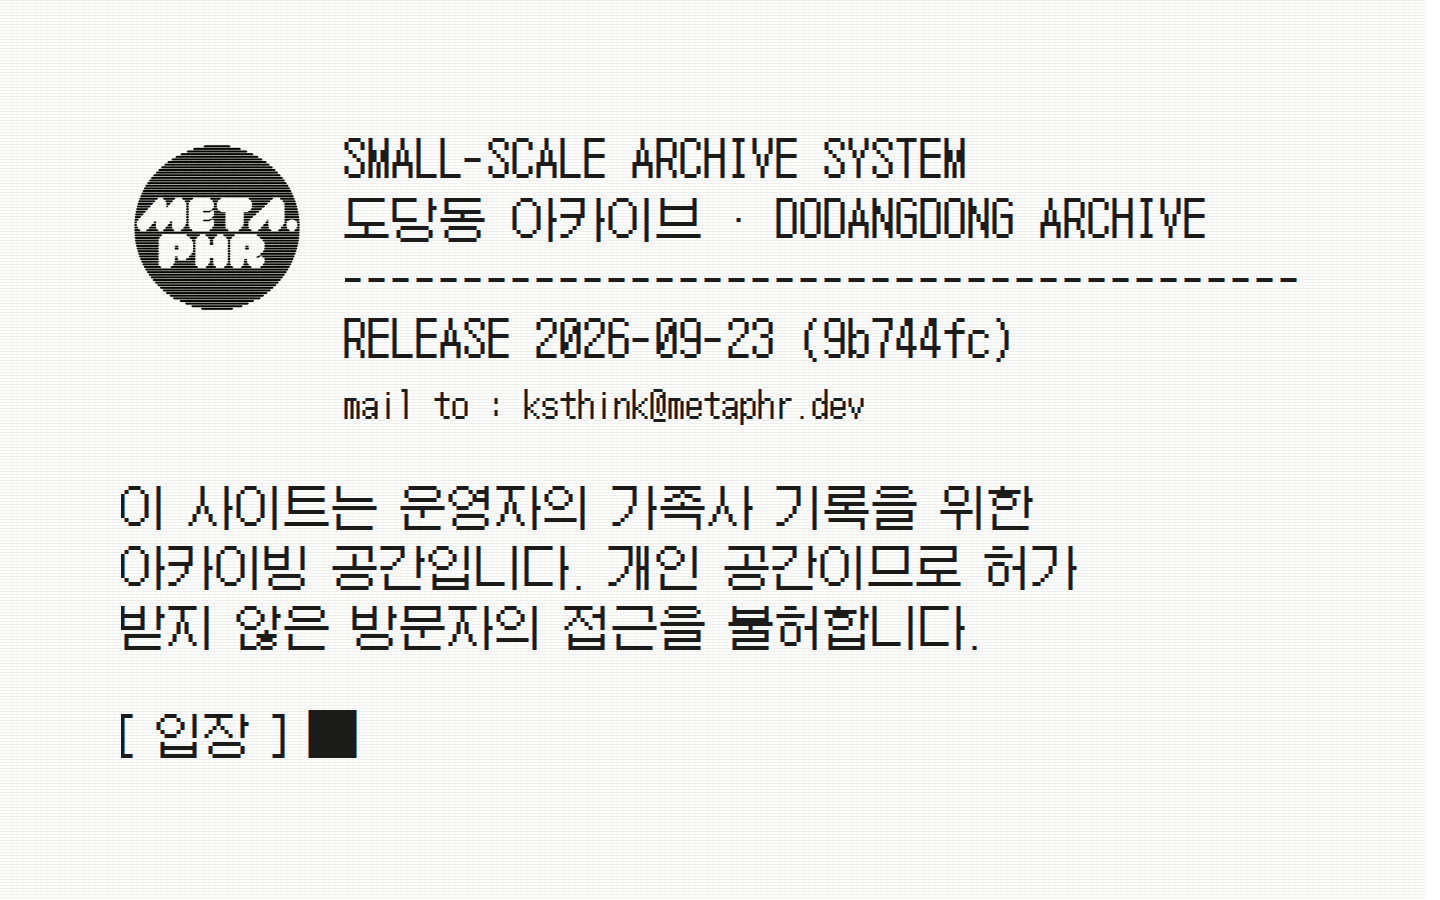
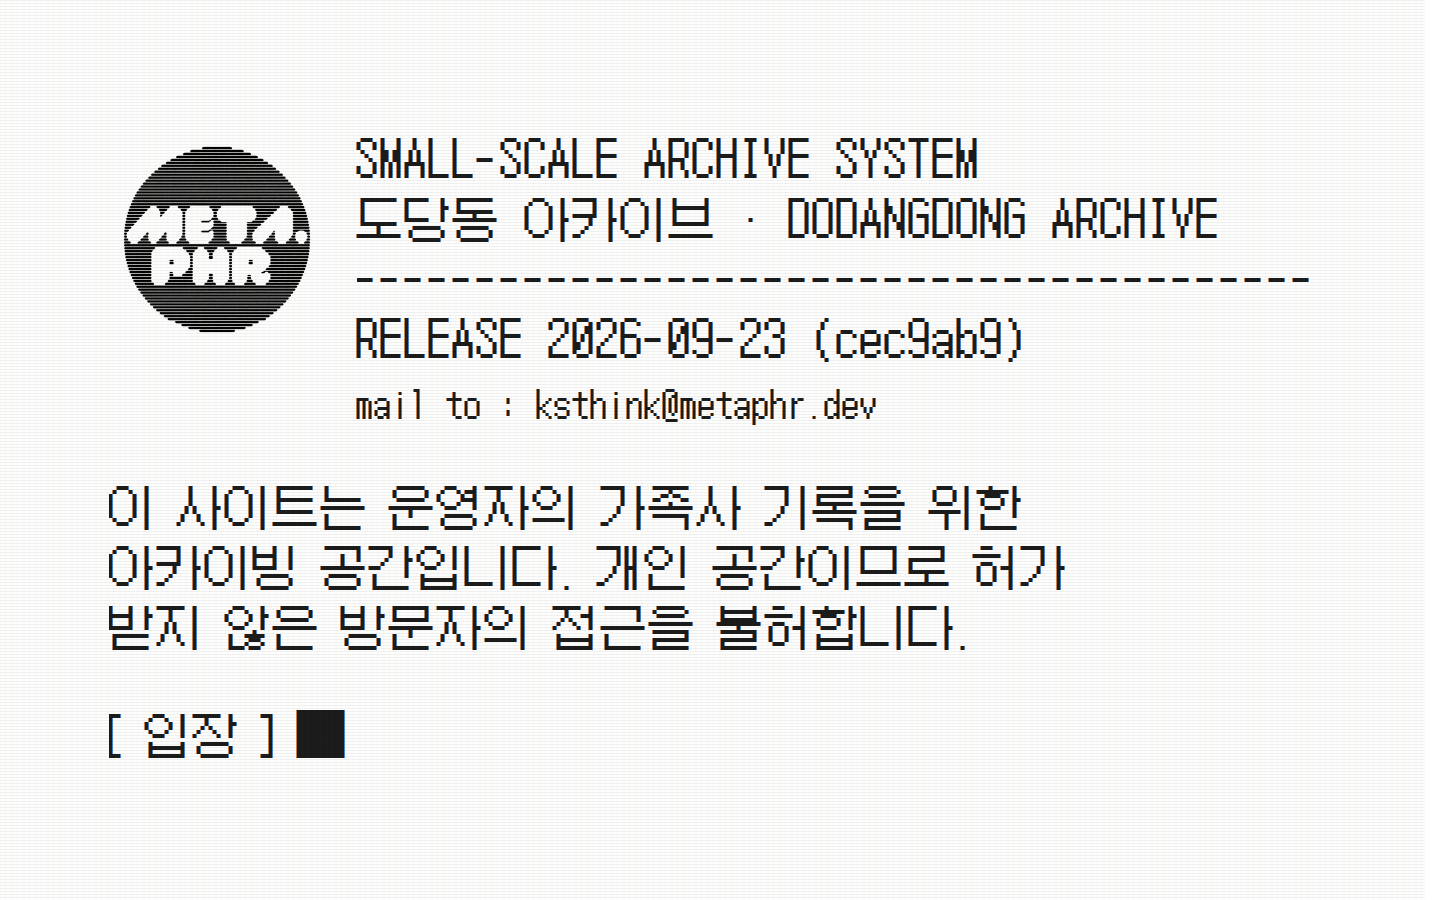
로고 줄무늬를 화면 주사선과 같은 3px 주기에 맞춘다
원본(1254px)의 한 주기가 17.4px 이다. 192px 로 놓으면 2.7px 이 되어
화면에 깔린 3px 주사선과 어긋나고, 그 어긋남이 이질감으로 보였다.
216px 에서 정확히 3px 이 되므로 그 크기로 고정한다. 그림도 2배인
432px 로 다시 받아 둔다(고해상도 화면에서 1:1).

좁은 화면에서도 로고를 줄이지 않는다 — 줄이면 결이 다시 어긋난다.
대신 로고를 글 위로 올려 세로로 쌓는다.

diff --git a/src/app/intro/intro.css b/src/app/intro/intro.css
@@ -85,7 +85,9 @@
   /* 그림에 이미 주사선이 그어져 있다 — CSS 로 덧입히지 않는다(무늬가 겹쳐 어른거린다) */
   display: block;
   height: auto;
-  width: 192px;
+  /* 그림 속 줄무늬가 화면에 깔린 주사선과 같은 3px 주기로 떨어지는 크기다
+     (원본 1254px 에서 한 주기가 17.4px → 216px 에서 3px). 크기를 바꾸면 결이 어긋난다. */
+  width: 216px;
 }
 .intro-head p, .intro-head h1 { font: inherit; margin: 0; }
 /* 기계가 제 이름을 대는 머리글 — 고정폭이라야 줄이 가지런하다 */
@@ -144,12 +146,12 @@
   .intro { font: var(--text-title) }
   .intro-head > div, .intro-form input { font-size: 36px; line-height: 48px }
   .intro-mail { font-size: 24px; line-height: 36px }
-  .intro-logo { width: 144px }
+
 }
 
 @media (max-width: 900px) {
-  .intro-head { gap: 24px; margin-bottom: 24px }
-  .intro-logo { width: 128px }
+  /* 로고 크기는 줄이지 않는다(줄이면 줄무늬 결이 어긋난다) — 대신 글 위로 올린다 */
+  .intro-head { flex-direction: column; gap: 24px; margin-bottom: 24px }
   .intro-form { grid-template-columns: 1fr; gap: 0 }
   .intro-keys { gap: 24px; margin-top: 24px }
   .intro-msg { margin-bottom: 24px }

diff --git a/DESIGN.md b/DESIGN.md
@@ -325,8 +325,11 @@
 
 - 주사선은 가만히 깔린 무늬다. **깜빡이지 않는다** — 화면이 떠는 효과는 두지 않는다.
 - 왼쪽 위는 META.PHR 로고다. 주사선이 그어진 둥근 판이며, 이 화면 전용 그림이다
-  (`/brand/metaphr-crt.png`, 384px). 그림에 이미 줄이 그어져 있으므로 CSS 로 덧입히지 않는다.
+  (`/brand/metaphr-crt.png`, 432px). 그림에 이미 줄이 그어져 있으므로 CSS 로 덧입히지 않는다.
   꼬리말의 낱말형 로고는 그대로다.
+- **로고는 216px 로 놓는다.** 원본(1254px)의 줄무늬 한 주기가 17.4px 이라, 216px 에서 정확히 3px —
+  화면에 깔린 주사선과 같은 주기다. 크기를 바꾸면 두 결이 어긋나 로고만 따로 논다.
+  좁은 화면에서도 줄이지 않고, 대신 글 위로 올린다.
 - 오른쪽은 기계가 제 이름을 대는 머리글이다. 배포한 날짜와 배포번호(커밋 일곱 자리)를 적고,
   마지막 줄 `mail to : ksthink@metaphr.dev` 는 편지 링크다. 머리글보다 한 단계 작고(48 → 36),
   밑줄은 긋지 않는다 — 올리면 먹색으로 뒤집혀 누를 수 있음을 알린다.
